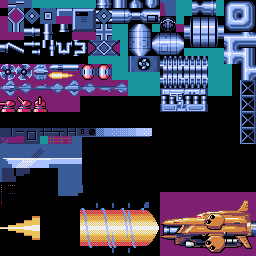
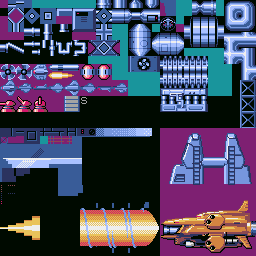
敵発生パターンを修正

Changed region(s): [[0.625, 0.5, 1.0, 0.75], [0.25, 0.375, 0.3438, 0.4375]]

diff --git a/source/graslay.py b/source/graslay.py
@@ -544,6 +544,16 @@ class MapDraw1:
 		pass
 
 	def update(self, skip):
+		if skip == False:
+			# スキップ時はマップデータやオブジェクト追加しない
+			for my in range(0, 128):
+				mx = gcommon.screenPosToMapPosX(256)
+				n = gcommon.getMapDataByMapPos(mx, my)
+				if n == 394:
+					# 固定シャッター
+					gcommon.setMapDataByMapPos(mx, my, 0)
+					obj = enemy.FixedShutter1(mx, my, 2)
+					gcommon.ObjMgr.addObj(obj)
 		gcommon.map_x += gcommon.cur_scroll_x
 		gcommon.map_y += gcommon.cur_scroll_y
 
@@ -1382,7 +1392,7 @@ class MainGame:
 				pyxel.blt(96 + 40*i, 192, 0, i * 40, 48, 40, 8)
 		
 		#pyxel.text(120, 184, str(gcommon.back_map_x), 7)
-		#pyxel.text(120, 184, str(gcommon.game_timer), 7)
+		pyxel.text(120, 184, str(gcommon.game_timer), 7)
 		#pyxel.text(200, 188, str(len(gcommon.ObjMgr.objs)), 7)
 		#pyxel.text(160, 188, str(self.event_pos),7)
 		#pyxel.text(120, 194, str(gcommon.getMapData(gcommon.ObjMgr.myShip.x, gcommon.ObjMgr.myShip.y)), 7)
@@ -1640,21 +1650,25 @@ class MainGame:
 			[1860, enemy.Jumper1, 256, 70, 0.1],		\
 			[1860, enemy.Battery1, 69, 6, 1],		\
 			[1860, enemy.Battery1, 70, 25, 0],		\
+			[2100, enemy.RollingFighter1Group, 24, 15, 4],		\
+			[2130, enemy.RollingFighter1Group, 90, 15, 4],		\
 			[2230, enemy.Jumper1, 256, 70, 0.1],		\
 			[2260, enemy.Jumper1, 256, 70, 0.1],		\
 			[2430, enemy.MissileShip, 82, 200],		\
 			[2430, enemy.Battery1, 100, 7, 1],		\
 			[2430, enemy.Battery1, 100, 24, 0],		\
-			[2460, enemy.MissileShip, 82, 200],		\
-			[2490, enemy.MissileShip, 82, 200],		\
+		#	[2460, enemy.MissileShip, 82, 200],		\
+		#	[2490, enemy.MissileShip, 82, 200],		\
 			[2500, enemy.Battery1, 105, 7, 1],		\
 			[2500, enemy.Battery1, 105, 24, 0],		\
 			[2700, enemy.RollingFighter1Group, 24, 15, 4],		\
 			[2760, enemy.RollingFighter1Group, 80, 15, 4],		\
 			[2800, enemy.RollingFighter1Group, 40, 15, 4],		\
+			[2830, enemy.MissileShip, 40, 160],		\
 			[2860, enemy.RollingFighter1Group, 120, 15, 4],		\
-			[3100, enemy.MissileShip, 40, 160],		\
-			[3100, enemy.MissileShip, 80, 200],		\
+			[2900, enemy.MissileShip, 80, 200],		\
+			[3000, enemy.RollingFighter1Group, 30, 15, 4],		\
+			[3060, enemy.RollingFighter1Group, 120, 15, 4],		\
 			[3240, enemy.Jumper1, 256, 30, -0.1],		\
 			[3280, enemy.Jumper1, 256, 50, 0.1],		\
 			[3350, enemy.Battery1, 144, 33, 1],		\
@@ -1667,9 +1681,15 @@ class MainGame:
 			[3420, enemy.Battery1, 144, 45, 0],		\
 			[3460, enemy.Battery1, 118, 50, 1],		\
 			[3460, enemy.Battery1, 118, 52, 0],		\
+			[4000, enemy.Jumper1, 256, 150, -0.1],		\
+			[4030, enemy.Jumper1, 256, 150, -0.1],		\
+			[4060, enemy.Jumper1, 256, 150, -0.1],		\
+			[4160, enemy.Jumper1, -16, 50, 0.1],		\
+			[4190, enemy.Jumper1, -16, 50, 0.1],		\
 			[4200, enemy.Battery1, 162, 60, 1],		\
 			[4200, enemy.Battery1, 164, 60, 1],		\
 			[4200, enemy.Jumper1, 256, 130, -0.1],		\
+			[4230, enemy.Jumper1, 256, 150, -0.1],		\
 			[4400, enemy.Jumper1, 256, 100, 0.1],		\
 			[4400, enemy.MissileShip, 80, 200],		\
 			[4400, enemy.Battery1, 154, 81, 0],		\
@@ -1679,15 +1699,16 @@ class MainGame:
 			[4500, enemy.Battery1, 170, 81, 0],		\
 			[4520, enemy.Battery1, 172, 81, 0],		\
 			[4530, enemy.Jumper1, 256, 120, 0.1],		\
-			[4700, enemy.RollingFighter1Group, 60, 15, 4],		\
-			[4730, enemy.RollingFighter1Group, 120, 15, 4],		\
+			[4700, enemy.RollingFighter1Group, 50, 15, 4],		\
+			[4730, enemy.RollingFighter1Group, 110, 15, 4],		\
 			[4830, enemy.MissileShip, 120, 200],		\
-			[4860, enemy.MissileShip, 80, 200],		\
+			[4860, enemy.MissileShip, 70, 200],		\
 			[5100, boss.Boss1, 256, 60],		\
-			[5100, enemy.DockArm, 204, 59, 180],		\
-			[5100, enemy.DockArm, 212, 59, 180],		\
-			[5130, enemy.DockArm, 206, 59, 180],		\
-			[5130, enemy.DockArm, 210, 59, 180],		\
+			[5100, boss.Boss1Base, 256, 60],		\
+			# [5100, enemy.DockArm, 204, 59, 180],		\
+			# [5100, enemy.DockArm, 212, 59, 180],		\
+			# [5130, enemy.DockArm, 206, 59, 180],		\
+			# [5130, enemy.DockArm, 210, 59, 180],		\
 		]
 
 	def initStory2(self):

diff --git a/source/enemy.py b/source/enemy.py
@@ -107,7 +107,7 @@ class EnemyBase:
 	# 破壊されたとき
 	def broken(self):
 		layer = gcommon.C_LAYER_EXP_SKY
-		if self.layer == gcommon.C_LAYER_GRD:
+		if self.layer in (gcommon.C_LAYER_GRD, gcommon.C_LAYER_UNDER_GRD):
 			layer = gcommon.C_LAYER_GRD
 		
 		gcommon.score += self.score
@@ -386,10 +386,15 @@ class Jumper1(EnemyBase):
 		self.hitcolor2 = 6
 		self.exptype = gcommon.C_EXPTYPE_SKY_S
 		self.dx = -1
+		if self.x == -16:
+			self.dx = 1
 		self.dy = 0.0
 
 	def update(self):
 		self.x = self.x + self.dx
+		if self.x < -16 or self.x > 256:
+			self.remove()
+			return
 		self.y = self.y + self.dy
 		self.dy = self.dy + self.ay
 		if self.dy > 0:
@@ -445,6 +450,7 @@ class RollingFighter1Group(EnemyBase):
 		self.max = t[4]
 		self.cnt2 = 0
 		self.hitCheck = False
+		self.shotHitCheck = False
 
 	def update(self):
 		if self.cnt % self.interval == 0:
@@ -674,9 +680,9 @@ class Fan1Group(EnemyBase):
 	def draw(self):
 		pass
 
-class Fan1(EnemyBase):
+class Fan1a(EnemyBase):
 	def __init__(self, t):
-		super(Fan1, self).__init__()
+		super(Fan1a, self).__init__()
 		self.x = t[2]
 		self.y = t[3]
 		self.left = 2
@@ -701,6 +707,45 @@ class Fan1(EnemyBase):
 	def draw(self):
 		pyxel.blt(self.x, self.y, 1, 0 + (self.cnt & 4) * 4, 64, 16, 16, gcommon.TP_COLOR)
 
+class Fan1(EnemyBase):
+	def __init__(self, t):
+		super(Fan1, self).__init__()
+		self.x = t[2]
+		self.y = t[3]
+		self.left = 2
+		self.top = 2
+		self.right = 14
+		self.bottom = 14
+		self.hp = 1
+		self.dx = 0
+		self.dy = 0
+		#self.time1 = 60
+		#self.time2 = 90
+		self.layer = gcommon.C_LAYER_SKY
+		self.score = 10
+	
+	def update(self):
+		if self.state == 0:
+			self.x -= 3
+			if self.x < 100:
+				self.nextState()
+		elif self.state == 1:
+			self.x += 3
+			if self.x > 190:
+				self.nextState()
+		else:
+			self.x -= 3
+
+		if self.state in (1, 2):
+			if gcommon.ObjMgr.myShip.y < self.y +2:
+				self.y -= 1.5
+			elif gcommon.ObjMgr.myShip.y > self.y -2:
+				self.y += 1.5
+		if self.x <= -16:
+			self.remove()
+
+	def draw(self):
+		pyxel.blt(self.x, self.y, 1, 0 + (self.cnt & 4) * 4, 64, 16, 16, gcommon.TP_COLOR)
 
 class MissileShip(EnemyBase):
 	def __init__(self, t):
@@ -1354,6 +1399,32 @@ class StageClear(EnemyBase):
 	def draw(self):
 		if self.stageNo != 6:
 			gcommon.showText(self.x, self.y, self.text)
+
+class FixedShutter1(EnemyBase):
+	def __init__(self, mx, my, size):
+		super(FixedShutter1, self).__init__()
+		pos = gcommon.mapPosToScreenPos(mx, my)
+		self.x = pos[0]		# screen x
+		self.y = pos[1]		# screen y
+		self.size = size	# 大きさ（16ドット単位）
+		self.left = 0
+		self.right = 15
+		self.top = 0
+		self.bottom = 16 * self.size -1
+		self.hp = 200
+		self.layer = gcommon.C_LAYER_UNDER_GRD
+		self.exptype = gcommon.C_EXPTYPE_GRD_M
+		self.ground = True
+		self.hitCheck = True
+		self.shotHitCheck = True
+		self.enemyShotCollision = True
+
+	def update(self):
+		pass
+
+	def draw(self):
+		for i in range(self.size):
+			pyxel.blt(self.x, self.y + i * 16, 1, 64, 96, 16, 16)
 
 class Shutter1(EnemyBase):
 	def __init__(self, x, y, direction, size, mode, speed, param1, param2):

diff --git a/source/boss.py b/source/boss.py
@@ -7,6 +7,38 @@ import enemy
 
 # ボス処理
 
+class Boss1Base(enemy.EnemyBase):
+	def __init__(self, t):
+		super(Boss1Base, self).__init__()
+		self.x = t[2]
+		self.y = t[3]
+		self.left = 16
+		self.top = 16
+		self.right = 79
+		self.bottom = 45
+		self.hp = 999999
+		self.layer = gcommon.C_LAYER_UNDER_GRD
+		self.ground = True
+		self.shotHitCheck = False	# 自機弾との当たり判定
+		self.hitCheck = False	# 自機と敵との当たり判定
+		self.enemyShotCollision = False	# 敵弾との当たり判定を行う
+		self.posY = 0
+
+	def update(self):
+		if self.x <= -96:
+			self.remove()
+			return
+		if self.cnt > 210:
+			if self.posY < 64:
+				 self.posY += 1
+
+	def draw(self):
+		# 上
+		pyxel.blt(self.x, self.y -self.posY -40, 1, 160, 128, 96, -64, gcommon.TP_COLOR)
+		# 下
+		pyxel.blt(self.x, self.y +31 +self.posY, 1, 160, 128, 96, 64, gcommon.TP_COLOR)
+ 
+
 class Boss1(enemy.EnemyBase):
 	def __init__(self, t):
 		super(Boss1, self).__init__()
@@ -17,7 +49,7 @@ class Boss1(enemy.EnemyBase):
 		self.right = 79
 		self.bottom = 45
 		self.hp = 999999
-		self.layer = gcommon.C_LAYER_SKY
+		self.layer = gcommon.C_LAYER_UNDER_GRD
 		self.score = 5000
 		self.subcnt = 0
 		self.hitcolor1 = 9

diff --git a/source/gcommon.py b/source/gcommon.py
@@ -196,7 +196,8 @@ class BGM:
 	STAGE2 = "game_maoudamashii_6_dangeon22.mp3"
 	STAGE3 = "Spear.mp3"
 	STAGE4 = "game_maoudamashii_6_dangeon15.mp3"
-	STAGE5 = "Cyber_Bull_Bound.mp3"
+	#STAGE5 = "Cyber_Bull_Bound.mp3"
+	STAGE5 = "Abstract.mp3"
 	STAGE6_1 = "Break_the_Wedge.mp3"
 	STAGE6_2 = "Fantasma.mp3"
 	STAGE6_3 = "In_Dark_Down.mp3"
